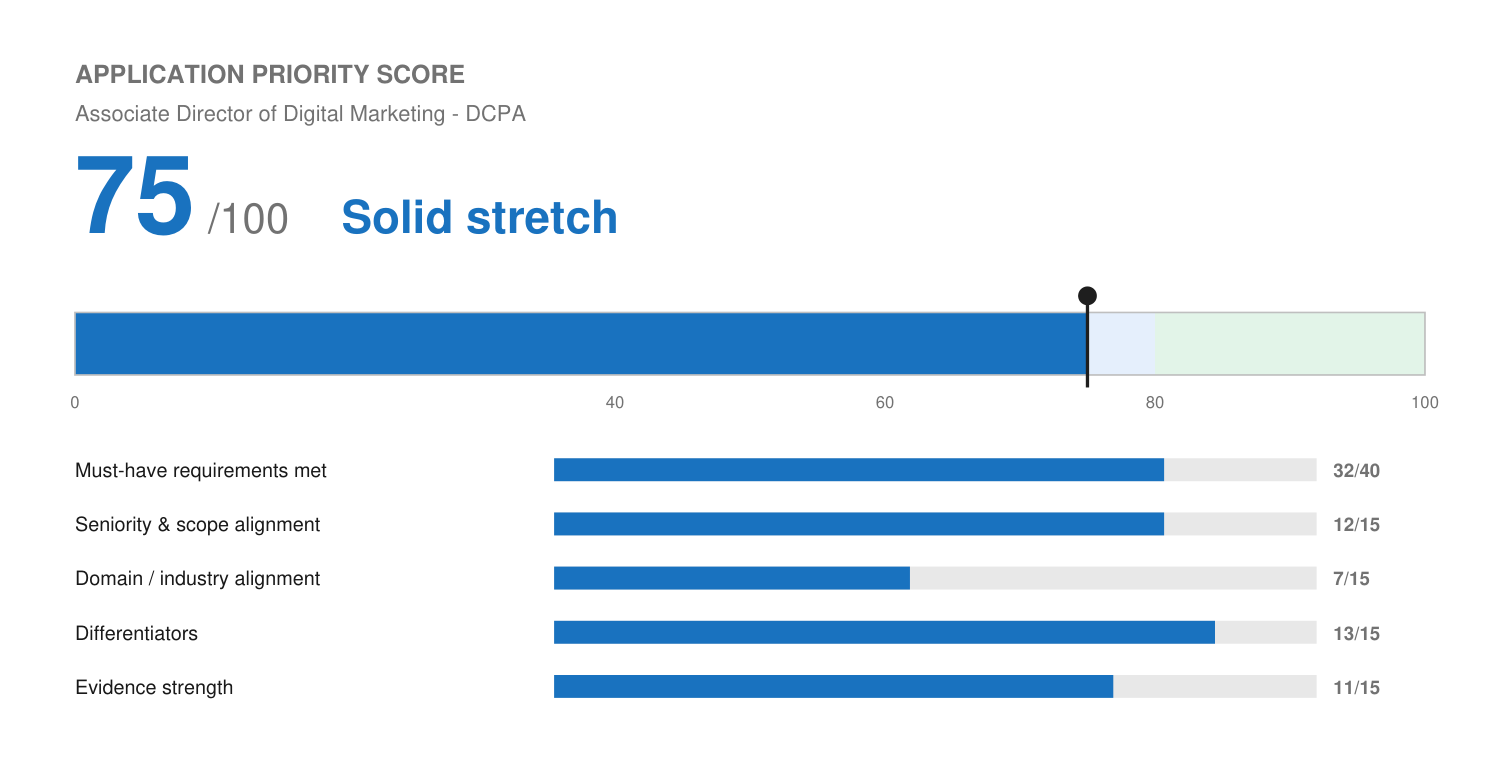
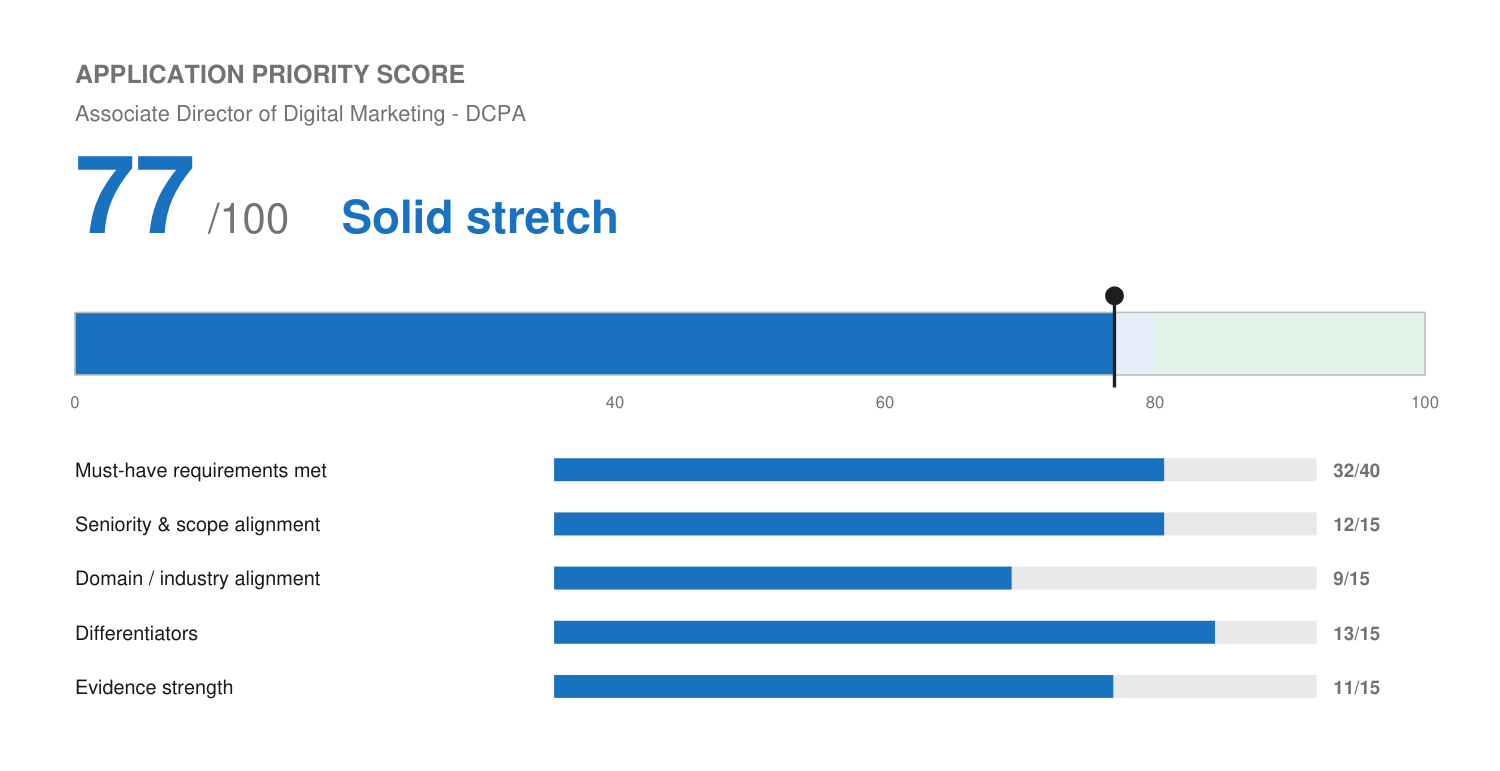
Capture live-entertainment background; rework DCPA letter and application answer
Roadie work and time at the Mishawaka added to the master profile as early background.
Domain score 7 -> 9, total 75 -> 77.

Claude-Session: https://claude.ai/code/session_012bgCHkXVGvrCAAv9cv5gL6

Changed region(s): [[0.7053, 0.3735, 0.7667, 0.4981], [0.5827, 0.716, 0.6747, 0.7782], [0.092, 0.2179, 0.1533, 0.3113]]

diff --git a/applications/dcpa-associate-director-digital-marketing/match-report.md b/applications/dcpa-associate-director-digital-marketing/match-report.md
@@ -43,8 +43,8 @@ confirmed gap rather than an open question.**
 ## Application Priority Score
 
 ```
-🔵 Application Priority Score: 75 / 100 — Solid stretch
-[███████████████░░░░░]  75%
+🔵 Application Priority Score: 77 / 100 — Solid stretch
+[███████████████░░░░░]  77%
 ```
 
 *Internal decision aid based on evidence in the master profile. Not a prediction of the
@@ -54,12 +54,12 @@ DCPA's screening, ATS output, or hiring decision.* See `fit.png`.
 | :--- | :--- | :--- |
 | Must-have requirements met | 32 / 40 | Years, degree, mentorship (now with real scale), paid social via Meta certification, data interpretation, vendor work, and stakeholder communication all land. Accessibility guidelines, organic social channel ownership, GEO, and ticketing/revenue-pacing data do not. |
 | Seniority & scope alignment | 12 / 15 | The role is Associate Director in a 300+ person organization, providing coverage for leadership and mentoring channel specialists. Two years leading a 20-person team is genuine management scope, well past the stated minimum; the remaining distance is the absence of a prior director-level marketing title. |
-| Domain / industry alignment | 7 / 15 | The weakest dimension. No arts, nonprofit, live entertainment, ticketed events, or fundraising experience. His background is B2B SaaS and agency. Time-bound campaign work is adjacent but not the same as a show calendar. |
+| Domain / industry alignment | 9 / 15 | Still the weakest dimension, but no longer empty: roadie work in college and time working at the Mishawaka Amphitheatre are real live-entertainment grounding, and Josh names live entertainment as a genuine long-standing interest. That is background and motivation, not professional arts marketing experience — no nonprofit, fundraising, or ticketed-campaign work. |
 | Differentiators | 13 / 15 | GEO readiness is the standout: the posting explicitly wants someone to "guide the way into generative engine optimization," and Josh builds LLM and agent systems daily alongside technical SEO work. Denver-metro residency, founder-level breadth, and full-funnel range add to it. |
 | Evidence strength | 11 / 15 | Real numbers for team size and tenure, retention, traffic and conversion lift, onboarding volume, and quota. Still none for campaign budgets managed or media spend reviewed. |
 
-**Band: Solid stretch, upper end** (revised up from 69 after Josh confirmed the Wix team
-scale and the Meta Ads certification). The honest read: he's strong on the analytical
+**Band: Solid stretch, upper end** (revised 69 -> 75 -> 77 as Josh confirmed the Wix
+team scale, the Meta Ads certification, and his live-entertainment background). The honest read: he's strong on the analytical
 judgment, cross-functional coordination, management scope, and paid media interpretation
 the role centers on, and weak on the arts/ticketing domain and the accessibility line. The
 GEO angle is a genuine differentiator few local applicants will have. He also named this
@@ -101,18 +101,25 @@ influencer marketing ✗ (and note: Josh will support or run a creator program b
 2. **GEO readiness.** The posting wants someone ready to lead into generative engine
    optimization. Josh combines hands-on technical SEO with daily LLM and agent system
    building — an unusual pairing and the strongest differentiator in the application.
-3. **Vendor and partner accountability.** Managing 15–20 external partners and working
+3. **A real reason to want this one.** Roadie work in college and time at the Mishawaka
+   give the "why the DCPA" answer something behind it, which matters at an organization
+   that will get plenty of applicants who just want a Denver marketing job.
+4. **Vendor and partner accountability.** Managing 15–20 external partners and working
    agency-side means he knows what a real recommendation looks like versus a platform-driven
    activity summary.
-4. **Real management scope.** Two years leading a team of 20, then 8, clears the stated
+5. **Real management scope.** Two years leading a team of 20, then 8, clears the stated
    2-year minimum with headcount most applicants at this band won't match.
-5. **Denver metro, no relocation.** The posting states no relocation benefits, which makes
+6. **Denver metro, no relocation.** The posting states no relocation benefits, which makes
    local candidacy a practical advantage.
 
 ## Gaps (genuinely absent from the profile)
 
-- **Arts, live entertainment, ticketed events, nonprofit.** Preferred, not required, but it
-  shapes the whole role — show calendars, revenue pacing, touring campaign windows.
+- **Professional arts / ticketed-events marketing.** Preferred, not required, but it shapes
+  the whole role: show calendars, revenue pacing, touring campaign windows. Note that the
+  *domain* gap is now partly answered — roadie work and time at the Mishawaka are genuine
+  live-entertainment grounding, and they belong in the cover letter and interview rather
+  than the resume's work history. What's still absent is professional marketing experience
+  inside that world.
 - **Organic social channel ownership.** Listed inside a required qualification. Josh has a
   working understanding of how attention and hype build through organic social, and is Meta
   Ads certified on the paid side, but has not run brand social channels — so the resume
@@ -127,7 +134,11 @@ influencer marketing ✗ (and note: Josh will support or run a creator program b
 
 All prior items are resolved except one:
 
-1. **Meta Ads certification — exact credential title and issue date.** Recorded in the
+1. **Roadie / Mishawaka details** — rough years, and what the Mishawaka role actually was.
+   Recorded in the profile as unconfirmed. Not needed for the written application (it's
+   framed honestly as long-ago background), but an interviewer will ask, so it's worth
+   having the specifics ready.
+2. **Meta Ads certification — exact credential title and issue date.** Recorded in the
    profile and on the resume as "Meta Ads Certification - Meta" pending the precise name
    (Meta Certified Digital Marketing Associate, a Blueprint certification, or similar) and
    the date. Worth getting exactly right, since a certification is checkable.
@@ -154,4 +165,5 @@ These recur often enough to justify an `/excavate-profile` pass before the next 
 
 - `resume.pdf` / `resume.docx` — 2 pages, modern style, selectable text, reverse-chronological (verified)
 - `cover-letter.pdf` / `cover-letter.docx` — 1 page, matching letterhead
+- `application-answers.md` — free-text answer for "Do you want to tell us anything else about yourself?"
 - `fit.png` — score meter

diff --git a/applications/dcpa-associate-director-digital-marketing/application-answers.md b/applications/dcpa-associate-director-digital-marketing/application-answers.md
@@ -4,13 +4,19 @@
 
 Three things the resume doesn't say directly.
 
-First, I'm not coming from the arts. My background is B2B and agency, so a show calendar
-and pacing revenue against it would be new context for me. What isn't new is the question
-underneath it: whether the digital activity is actually moving sales, or just producing
-good-looking platform reports. Sorting out that difference is most of what I do. The
-clearest example I have is a Google Ads account where the click metrics looked fine and
-the leads didn't. I cut the spam out of the targeting, then followed the gap that was
-left to the site's conversion path instead of calling the campaign fixed.
+First, my professional background is B2B and agency, not the arts, so a show calendar and
+pacing revenue against it would be new context for me. Live entertainment isn't. I worked
+as a roadie in college and spent time working at the Mishawaka, which is where I learned
+what a room feels like when a show lands and what it costs everyone when it doesn't. That
+was a long time ago and I'm not going to oversell it as marketing experience. It's the
+reason this posting is the one I actually want.
+
+What I do bring professionally is the question underneath your reporting philosophy:
+whether the digital activity is moving sales, or just producing good-looking platform
+reports. Sorting out that difference is most of what I do. The clearest example I have is
+a Google Ads account where the click metrics looked fine and the leads didn't. I cut the
+spam out of the targeting, then followed the gap that was left to the site's conversion
+path instead of calling the campaign fixed.
 
 Second, generative engine optimization is the reason I read this posting twice. I spend
 my working days building AI and agent systems, and I do technical SEO alongside it. That's
@@ -25,6 +31,6 @@ to put my name on.
 
 ---
 
-*Word count: ~230. Every claim traceable to the master profile. If the field has a tighter
-character limit, cut the third paragraph's last two sentences and the Google Ads example
-first, in that order.*
+*Word count: ~290. Every claim traceable to the master profile. If the field has a tighter
+character limit, cut in this order: the last two sentences of the final paragraph, then the
+Google Ads example. Keep the roadie/Mishawaka line and the GEO paragraph in any version.*

diff --git a/profile/master-profile.md b/profile/master-profile.md
@@ -43,6 +43,22 @@
 
 ---
 
+## Early / Pre-Professional Background (true, usable as context — not resume work history)
+
+> Added Aug 2026, confirmed by Josh. Not a professional marketing role and not to be listed
+> in the work-history table, but genuine domain grounding worth using in cover letters,
+> application answers, and interviews for live entertainment, venue, arts, or ticketed-event
+> employers, where it converts the weakest dimension of those applications into a real one.
+
+- **Roadie work during college** (Colorado State University era, Fort Collins, CO). Exact
+  years and acts not yet captured.
+- **Worked at the Mishawaka Amphitheatre**, Bellvue, CO — an outdoor music venue in the
+  Poudre Canyon. Role, dates, and duration not yet captured.
+- **Long-standing personal interest in live entertainment**, stated by Josh as a genuine
+  draw rather than a positioning angle.
+
+---
+
 ## Work History (employers, titles, dates — fixed facts)
 
 > **Ordering rule (non-negotiable, added Aug 2026 after an interviewer flagged an
